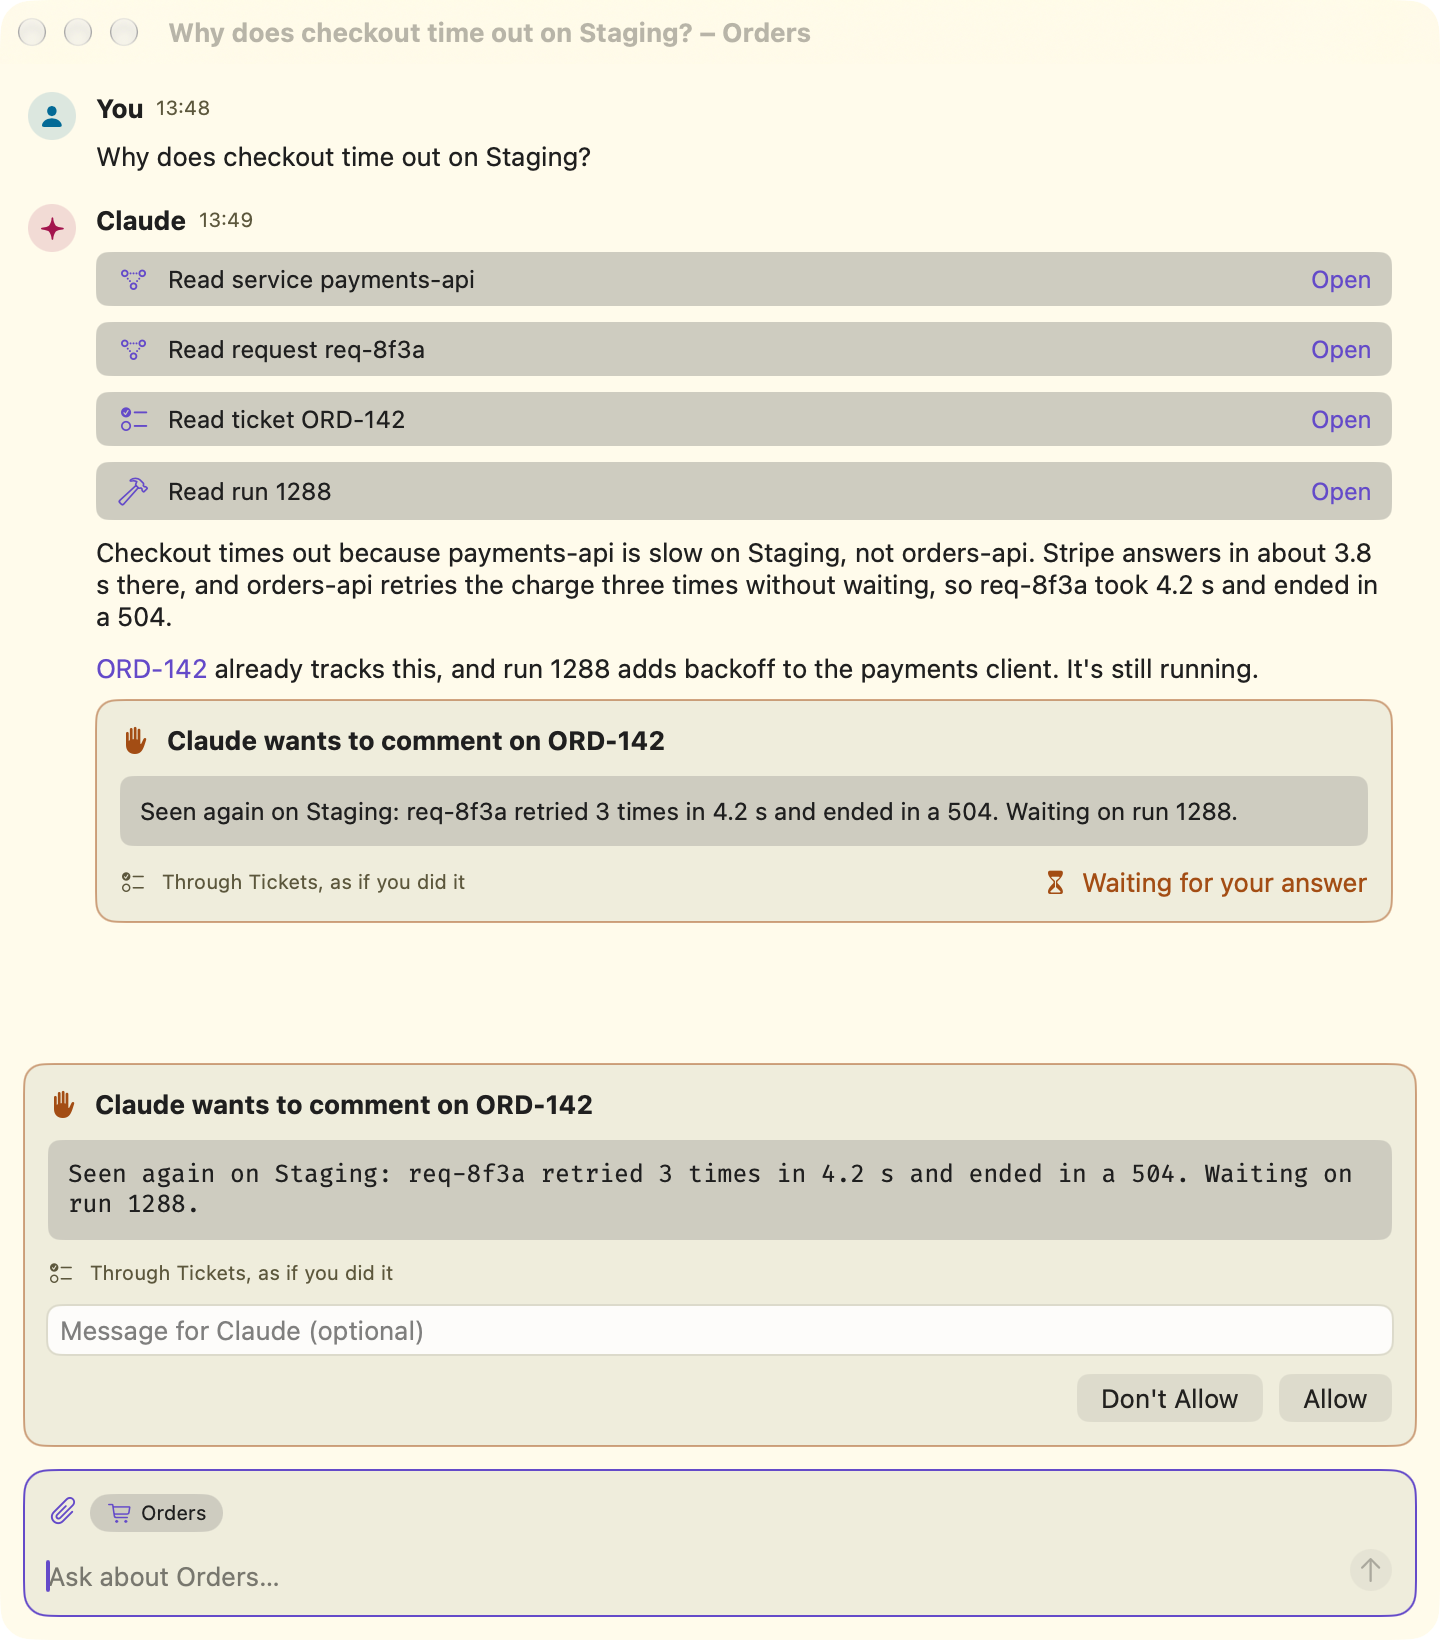
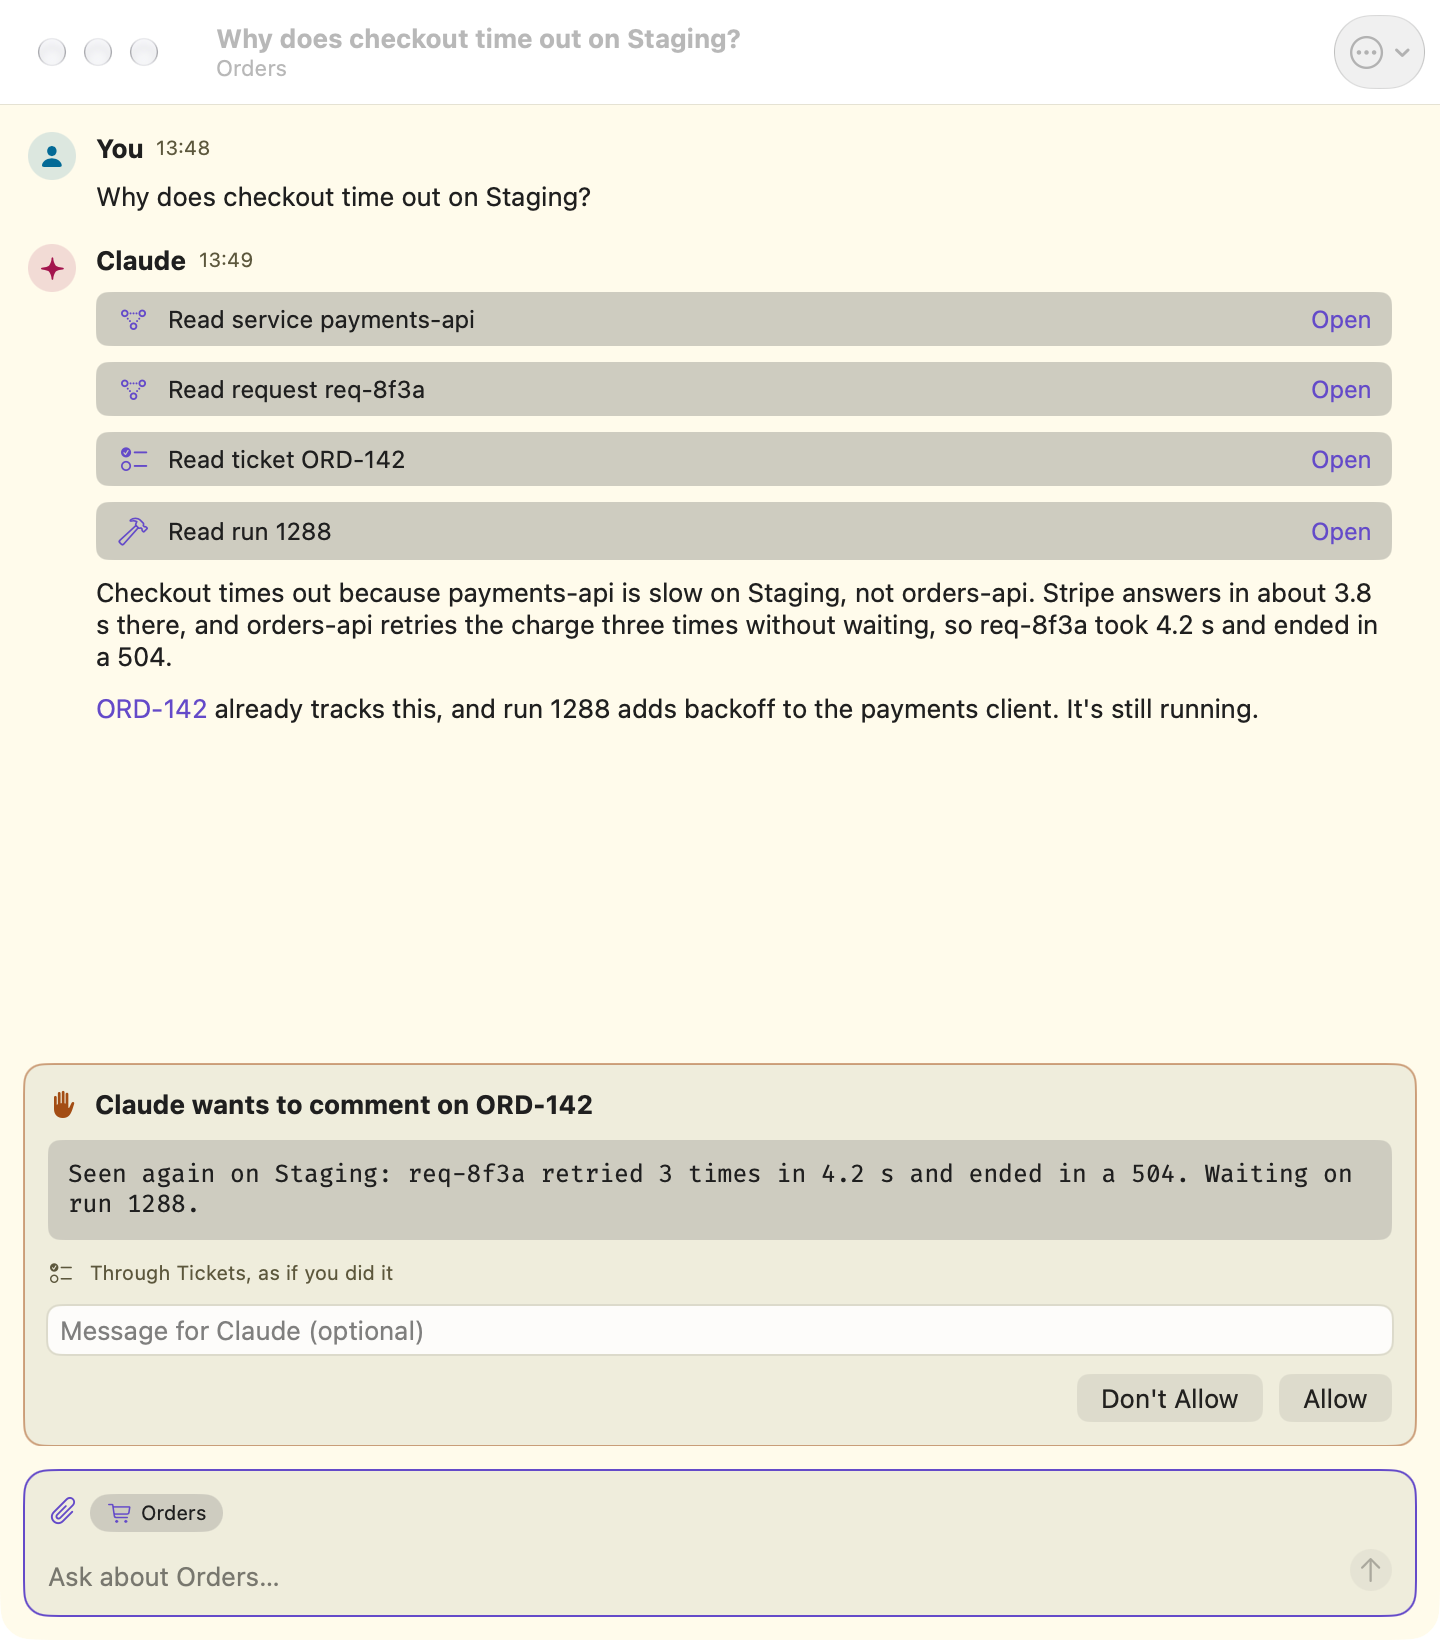
A chat's own window can rename, close, reopen and delete its chat, as V2's could
V2's chat window had the chat's menu; V3's had none, so these needed the Chat tool window. Its toolbar now
has More with Rename…, Close or Reopen, and Delete…, asking as the Chat window does.

Changed region(s): [[0.0, 0.0, 0.9688, 0.5598], [0.125, 0.0, 0.5625, 0.0622], [0.9375, 0.0311, 0.9688, 0.0622]]

diff --git a/HephaestusV3Kit/Sources/ChatKit/ChatWindowView.swift b/HephaestusV3Kit/Sources/ChatKit/ChatWindowView.swift
@@ -15,6 +15,11 @@ public struct ChatWindowView: View {
     @Environment(\.projectDirectory) private var directory
     @Environment(\.dismiss) private var dismiss
     @State private var model: ChatPanelModel?
+    /// V2's chat window menu: the title being typed for Rename, the confirmation asked, and why an action failed.
+    @State private var newTitle: String?
+    @State private var confirmsClose = false
+    @State private var confirmsDelete = false
+    @State private var failure: String?
 
     public init(chatID: String) {
         self.chatID = chatID
@@ -45,6 +50,56 @@ public struct ChatWindowView: View {
             }
         }
         .background(.canvas)
+        .toolbar {
+            if let conversation, let store = model?.store {
+                ToolbarItem(placement: .primaryAction) {
+                    Menu {
+                        Button(String(localized: "Rename…", bundle: #bundle)) { newTitle = conversation.title }
+                        if conversation.closed {
+                            Button(String(localized: "Reopen", bundle: #bundle, comment: "Reopens a closed chat")) {
+                                act { () throws(ChatSendError) in try store.reopen(chatID) }
+                            }
+                        } else {
+                            Button(String(localized: "Close", bundle: #bundle, comment: "Closes a chat")) { confirmsClose = true }
+                        }
+                        Divider()
+                        Button(String(localized: "Delete…", bundle: #bundle), role: .destructive) { confirmsDelete = true }
+                    } label: {
+                        Label(String(localized: "More", bundle: #bundle), systemImage: "ellipsis.circle")
+                    }
+                    .help(String(localized: "More", bundle: #bundle))
+                    .accessibilityIdentifier("chat.window.more")
+                }
+            }
+        }
+        .alert(String(localized: "Rename Chat", bundle: #bundle), isPresented: Binding(get: { newTitle != nil }, set: { if !$0 { newTitle = nil } })) {
+            TextField(String(localized: "Title", bundle: #bundle), text: Binding(get: { newTitle ?? "" }, set: { newTitle = $0 }))
+            Button(String(localized: "Rename", bundle: #bundle)) {
+                let title = newTitle ?? ""
+                if let store = model?.store { act { () throws(ChatSendError) in try store.rename(chatID, to: title) } }
+            }
+            .keyboardShortcut(.defaultAction)
+            Button(String(localized: "Cancel", bundle: #bundle), role: .cancel) { newTitle = nil }
+        }
+        .confirmationDialog(String(localized: "Close the chat “\(conversation?.title ?? "")”?", bundle: #bundle), isPresented: $confirmsClose) {
+            Button(String(localized: "Close", bundle: #bundle, comment: "Closes a chat")) {
+                if let store = model?.store { act { () throws(ChatSendError) in try store.close(chatID) } }
+            }
+            Button(String(localized: "Cancel", bundle: #bundle), role: .cancel) {}
+        }
+        .confirmationDialog(String(localized: "Delete the chat “\(conversation?.title ?? "")”?", bundle: #bundle), isPresented: $confirmsDelete) {
+            Button(String(localized: "Delete", bundle: #bundle), role: .destructive) {
+                if let store = model?.store { act { () throws(ChatSendError) in try store.delete(chatID) } }
+            }
+            Button(String(localized: "Cancel", bundle: #bundle), role: .cancel) {}
+        } message: {
+            Text("Its transcript and files move to the Trash.", bundle: #bundle)
+        }
+        .alert(String(localized: "The Change Failed", bundle: #bundle), isPresented: Binding(get: { failure != nil }, set: { if !$0 { failure = nil } })) {
+            Button(String(localized: "OK", bundle: #bundle)) { failure = nil }
+        } message: {
+            Text(verbatim: failure ?? "")
+        }
         .navigationTitle(Text(verbatim: conversation?.title ?? ""))
         .navigationSubtitle(Text(verbatim: project?.name ?? ""))
         .onAppear {
@@ -58,6 +113,15 @@ public struct ChatWindowView: View {
             if !wasShown && isGone { dismiss() }
         }
         .accessibilityIdentifier("chat.window")
+    }
+
+    /// Runs one of the menu's actions; a refusal shows in an alert.
+    private func act(_ action: () throws(ChatSendError) -> Void) {
+        do throws(ChatSendError) {
+            try action()
+        } catch {
+            failure = error.message
+        }
     }
 }
 

diff --git a/docs/ui/chat.md b/docs/ui/chat.md
@@ -316,7 +316,10 @@ V2's chat window: one chat in a window of its own, for keeping it in view beside
 - **Content.** The panel's conversation without its header (`ChatWindowView`, `chat.window`): the transcript,
   the cards, the Claude CLI line, the composer with **Add Files…**, the project's chip, the chat's settings and
   context indicator. The window's title is the chat's title, following each rename; its subtitle the project's
-  name. Under it, the [status bar](navigation.md#status-bar) with the app's version, the weekly usage and its
+  name. Its toolbar has V2's chat menu, **More** (`ellipsis.circle`, `chat.window.more`): **Rename…** ("Rename
+  Chat"), **Close** (asking "Close the chat “*title*”?") or **Reopen**, and **Delete…** ("Delete the chat
+  “*title*”?", "Its transcript and files move to the Trash."), as the Chat window's More menu; a refusal shows
+  "The Change Failed". Under it, the [status bar](navigation.md#status-bar) with the app's version, the weekly usage and its
   ladybug only, as V2's chat windows had (its feedback names the window "Chat", the chat's project and its title).
 - **Size.** 720 × 820 pt at first, at least 480 × 480 pt.
 - **States.** Loading (a spinner, `chat.window.loading`) while the projects load; **Chat Not Found** ("It was
